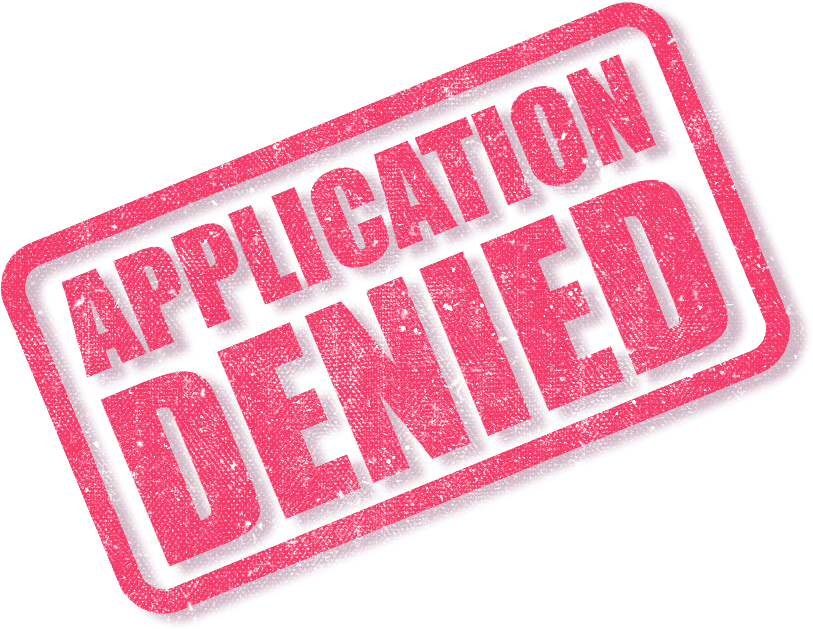
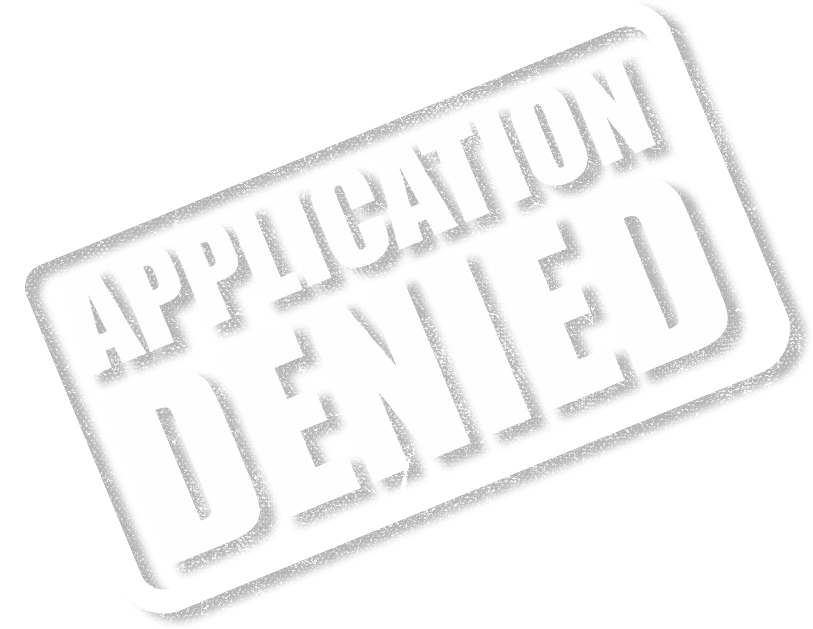
Creates new branch | Adds animate blink effect to main nav and white 'stamp' img

diff --git a/index.html b/index.html
@@ -7,6 +7,10 @@
     <title>Direct Mortgages | Home</title>
 
     <link rel="stylesheet" href="style.css" />
+    <link
+      rel="stylesheet"
+      href="https://cdnjs.cloudflare.com/ajax/libs/animate.css/4.1.1/animate.min.css"
+    />
   </head>
   <body>
     <!-- SupraNav 
@@ -35,11 +39,11 @@
 ------------------------------------------- -->
     <nav class="main-nav-wrap bg-dark txt-white">
       <ul class="main-nav flex txt-center">
-        <li class="main-nav-link hover-transition hover-pink border-left">
+        <li class="main-nav-link border-left">
           <a href="index.html">Home</a>
         </li>
         <!-- Bad Credit -->
-        <li class="main-nav-link hover-transition hover-pink border-left">
+        <li class="main-nav-link border-left">
           <label for="bad-credit-input" class="dropdown no-display"
             >Bad Credit</label
           >
@@ -125,7 +129,7 @@
           </ul>
         </li>
         <!-- Mortgages -->
-        <li class="main-nav-link hover-transition hover-pink border-left">
+        <li class="main-nav-link border-left">
           <label for="mortgages-input" class="dropdown no-display"
             >Mortgages</label
           >
@@ -176,7 +180,7 @@
           </ul>
         </li>
         <!-- Protection -->
-        <li class="main-nav-link hover-transition hover-pink border-left">
+        <li class="main-nav-link border-left">
           <label for="protection-input" class="dropdown no-display"
             >Protection</label
           >
@@ -216,9 +220,7 @@
             </li>
           </ul>
         </li>
-        <li
-          class="main-nav-link hover-transition hover-pink border-left border-right"
-        >
+        <li class="main-nav-link border-left border-right">
           <a href="#">Contact Us</a>
         </li>
       </ul>

diff --git a/style.css b/style.css
@@ -93,6 +93,34 @@ a {
   display: none;
 }
 
+/* Animations */
+
+.blink {
+  animation: blink 2s infinite;
+}
+@keyframes blink {
+  0% {
+    background: #1b1b1b;
+    color: white;
+    font-weight: 400;
+  }
+  25% {
+    background: #e40e7f;
+    color: #1b1b1b;
+    font-weight: 700;
+  }
+  50% {
+    background: #1b1b1b;
+    color: white;
+    font-weight: 400;
+  }
+  75% {
+    background: #e40e7f;
+    color: #1b1b1b;
+    font-weight: 700;
+  }
+}
+
 /* ============================
 SupraNav
 =============================== */
@@ -131,6 +159,8 @@ Main Nav
 
 .main-nav-wrap {
   width: 100%;
+  position: relative;
+  z-index: 1000;
 }
 .main-nav {
   justify-content: center;
@@ -141,8 +171,10 @@ Main Nav
   width: 255px;
 }
 .main-nav-link {
-  padding: 15px 0;
   font-size: 20px;
+}
+.main-nav-link a {
+  padding: 10px 0;
 }
 
 /* ============================
@@ -150,23 +182,25 @@ Dropdown Nav
 =============================== */
 .dropdown-menu {
   position: absolute;
-  top: 275px;
+  top: 150px;
   opacity: 0;
   visibility: hidden;
-  z-index: 1000;
   transition: opacity 0.3s ease-out, top 0.3s ease-out;
   width: 255px;
   background-color: #1b1b1b;
 }
+.main-nav-link:hover {
+  animation: blink 2s infinite;
+}
 .main-nav-link:hover > .dropdown-menu {
   visibility: visible;
   opacity: 1;
-  top: 222px;
+  top: 45px;
 }
 .dropdown-link-wrap {
   width: 100% !important;
   border-bottom: 1px solid #e40e80;
-  font-size: 16px;
+  font-size: 15px;
 }
 .dropdown-link {
   padding: 10px 0;
